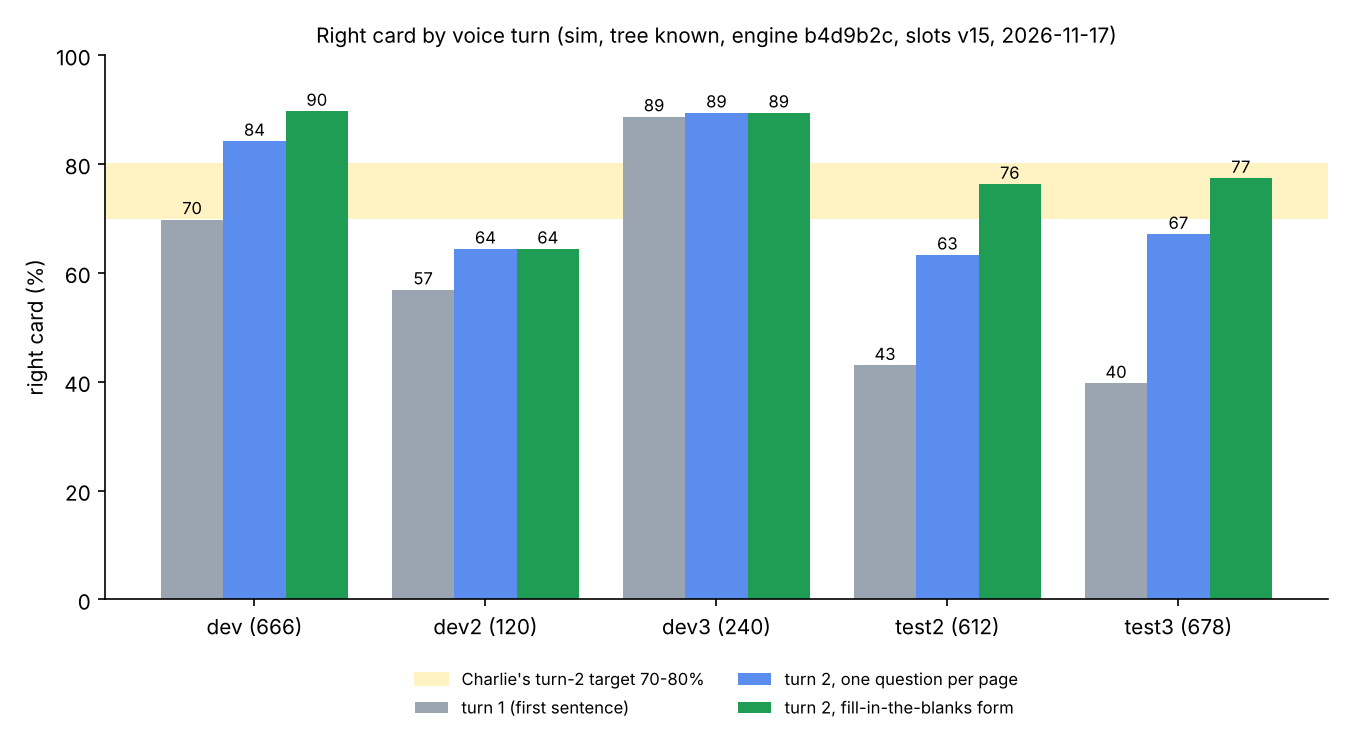
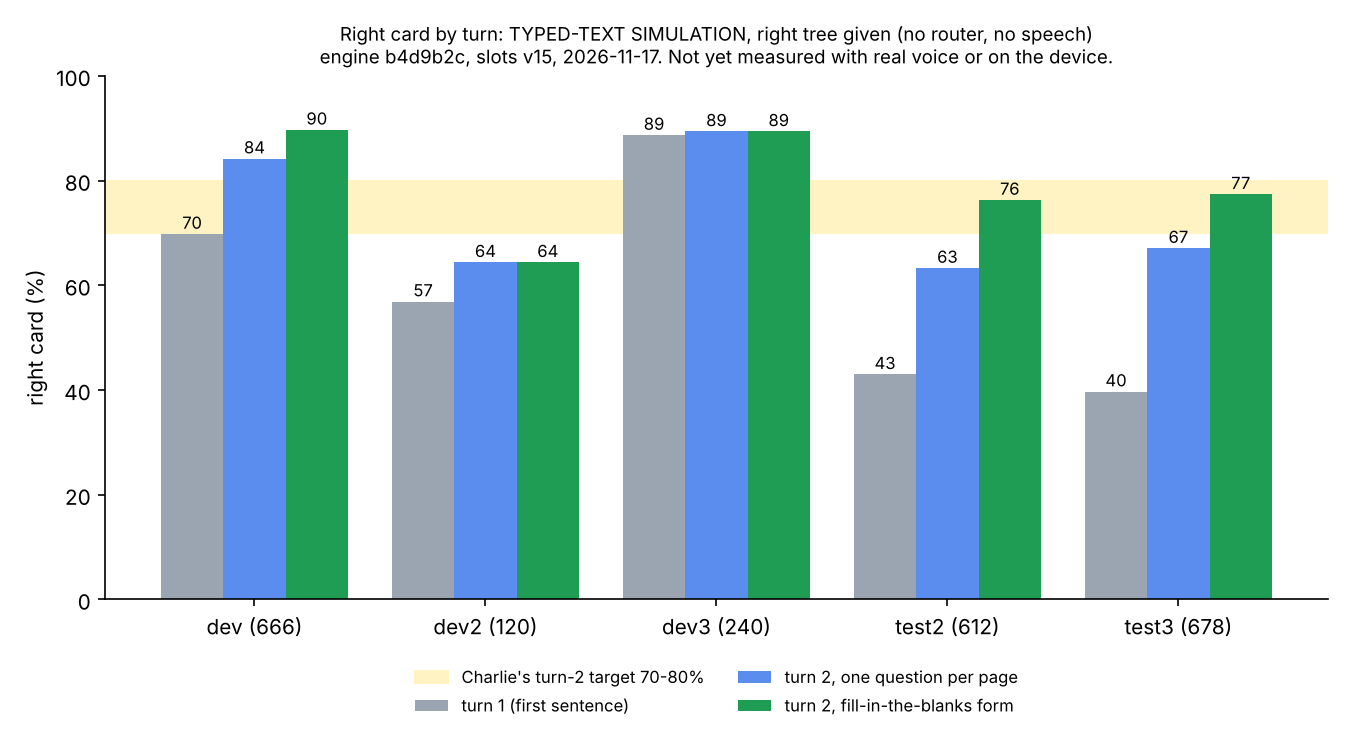
docs: say plainly what the voice flow numbers measure and what is untested
The turn chart is a typed-text simulation with the right tree given (router
and recognizer bypassed, form answers simulated) at b4d9b2c / slots v15, and
is superseded. Adds a What has been tested table to VOICE_INTAKE.md, labels
the mockups as drawings, marks VOICE_ROUTER.md numbers as the previous
setup, and says what each run capture shows.

Claude-Session: https://claude.ai/code/session_01N1m9NHZHedY3uHeDvY4QfS

diff --git a/docs/voice/make_turn_chart.py b/docs/voice/make_turn_chart.py
@@ -23,7 +23,7 @@ for k in range(3):
 ax.set_xticks(list(x), names)
 ax.set_ylim(0, 100)
 ax.set_ylabel("right card (%)")
-ax.set_title("Right card by voice turn (sim, tree known, engine b4d9b2c, slots v15, 2026-11-17)", fontsize=10)
+ax.set_title("Right card by turn: TYPED-TEXT SIMULATION, right tree given (no router, no speech)\nengine b4d9b2c, slots v15, 2026-11-17. Not yet measured with real voice or on the device.", fontsize=9)
 ax.legend(fontsize=8, loc="upper center", bbox_to_anchor=(0.5, -0.1), ncol=2, frameon=False)
 ax.spines[["top", "right"]].set_visible(False)
 fig.tight_layout()

diff --git a/docs/VOICE_INTAKE.md b/docs/VOICE_INTAKE.md
@@ -1,5 +1,8 @@
 # Voice intake: the new layout (Charlie, 2026-11-17)
 
+> **Status, 2026-11-17: designed and simulated in Python only. The full flow has not been run
+> end to end, with real speech or on the device.** See [What has been tested](#what-has-been-tested).
+
 Buttons stay exactly as before: manual mode walks a tree page by page. Voice mode is rebuilt
 around one idea: **the first sentence fills in the blanks, one screen asks for the rest, then the
 cited card opens.** Nothing is generated on the device; every card shown is a signed-off,
@@ -34,8 +37,7 @@ Plain TALK is always one problem.
 
 ![Screen mockups](voice/voice-screens-mockup.png)
 
-*Mockups at the panel's real 250x122 (drawn 2x); wording is illustrative, not manual text. The C
-port of these screens is next.*
+*Mockups only, drawn with PIL at the panel's real 250x122 (2x); not taken from the device or the engine. Wording is illustrative, not manual text. The C port of these screens has not started.*
 
 ## Where things live
 
@@ -58,6 +60,26 @@ card's top-1/top-3 rank after the first sentence alone, split by how many blanks
 Tuning uses the dev sets only; test sets are scored once per change.
 
 ![Right card by voice turn](voice/2026-11-17_turn-accuracy_run-b4d9b2c_test-1.png)
+
+*What this chart is:* the form engine at b4d9b2c, slot files v15, 2026-11-17. The sentences were
+**typed text written by language models** (dev sets by local models, test2/test3 held out). The
+**right tree was handed to the engine**, so neither the router nor the recognizer took part. It
+measures the fill-in-the-blanks logic alone, on the best case of perfect words and the right
+tree, with the answer to the form also simulated (the sim says the right tile's words). The
+engine has changed since b4d9b2c (about 10 commits, new trees, slots v16/v16b); a rescore is
+running and this chart will be replaced. Real-voice and router-in-the-loop numbers will be lower and have not been measured yet.
+
+## What has been tested
+
+| Piece | Tested? | How |
+|---|---|---|
+| Keyword fill, life rules, one-form screen | Simulated | Typed sentences, right tree given, slots v15 (chart above) |
+| Snap, skip, tabs, ranking | Unit tests only | 47 tests on small made-up trees; ranking also tried on one real tree (fractures) |
+| Router picks the top 2-3 trees, then form | **Not yet** | Waiting on the topic-to-tree map |
+| Recognizer audio into the form, sector re-decode | **Not yet** | Recognizer is scored separately (PR #17) |
+| Charlie's real voice through the whole flow | **Not yet** | |
+| New blanks (slots v16/v16b) | **Not yet** | Scoring is queued on the desktop |
+| Firmware form screen, on-board timings | **Not started** | Mockups below are drawings, not the device |
 
 Run captures (terminal output of each training run / simulation) live in [docs/runs](runs/).
 Figures are made by `docs/voice/make_voice_figures.py` and `docs/voice/make_turn_chart.py`.

diff --git a/docs/runs/README.md b/docs/runs/README.md
@@ -4,3 +4,10 @@ Charlie (2026-11-17): every training run or simulation gets a terminal-style pic
 working, named `<date>_<what>_run-<run>_test-<n>.png`, with the raw text beside it (`.txt`).
 Made with `python -m vr.capture` (pipeline/voice_router/vr/capture.py). Captures hold scores and
 the engine's own words only, never manual text (personal content stays off GitHub).
+
+## What each capture shows
+
+| Capture | Setup | Measures |
+|---|---|---|
+| `2026-11-17_voice-router-tests_run-1396446_test-1` | Unit tests at 1396446 | Code paths pass on small made-up trees, not accuracy |
+| `2026-11-17_form-sim-fixture-bites_run-1396446_test-2` | Form sim on a small **made-up** bites tree, typed text | Shows the form working; not a score on the real trees |
